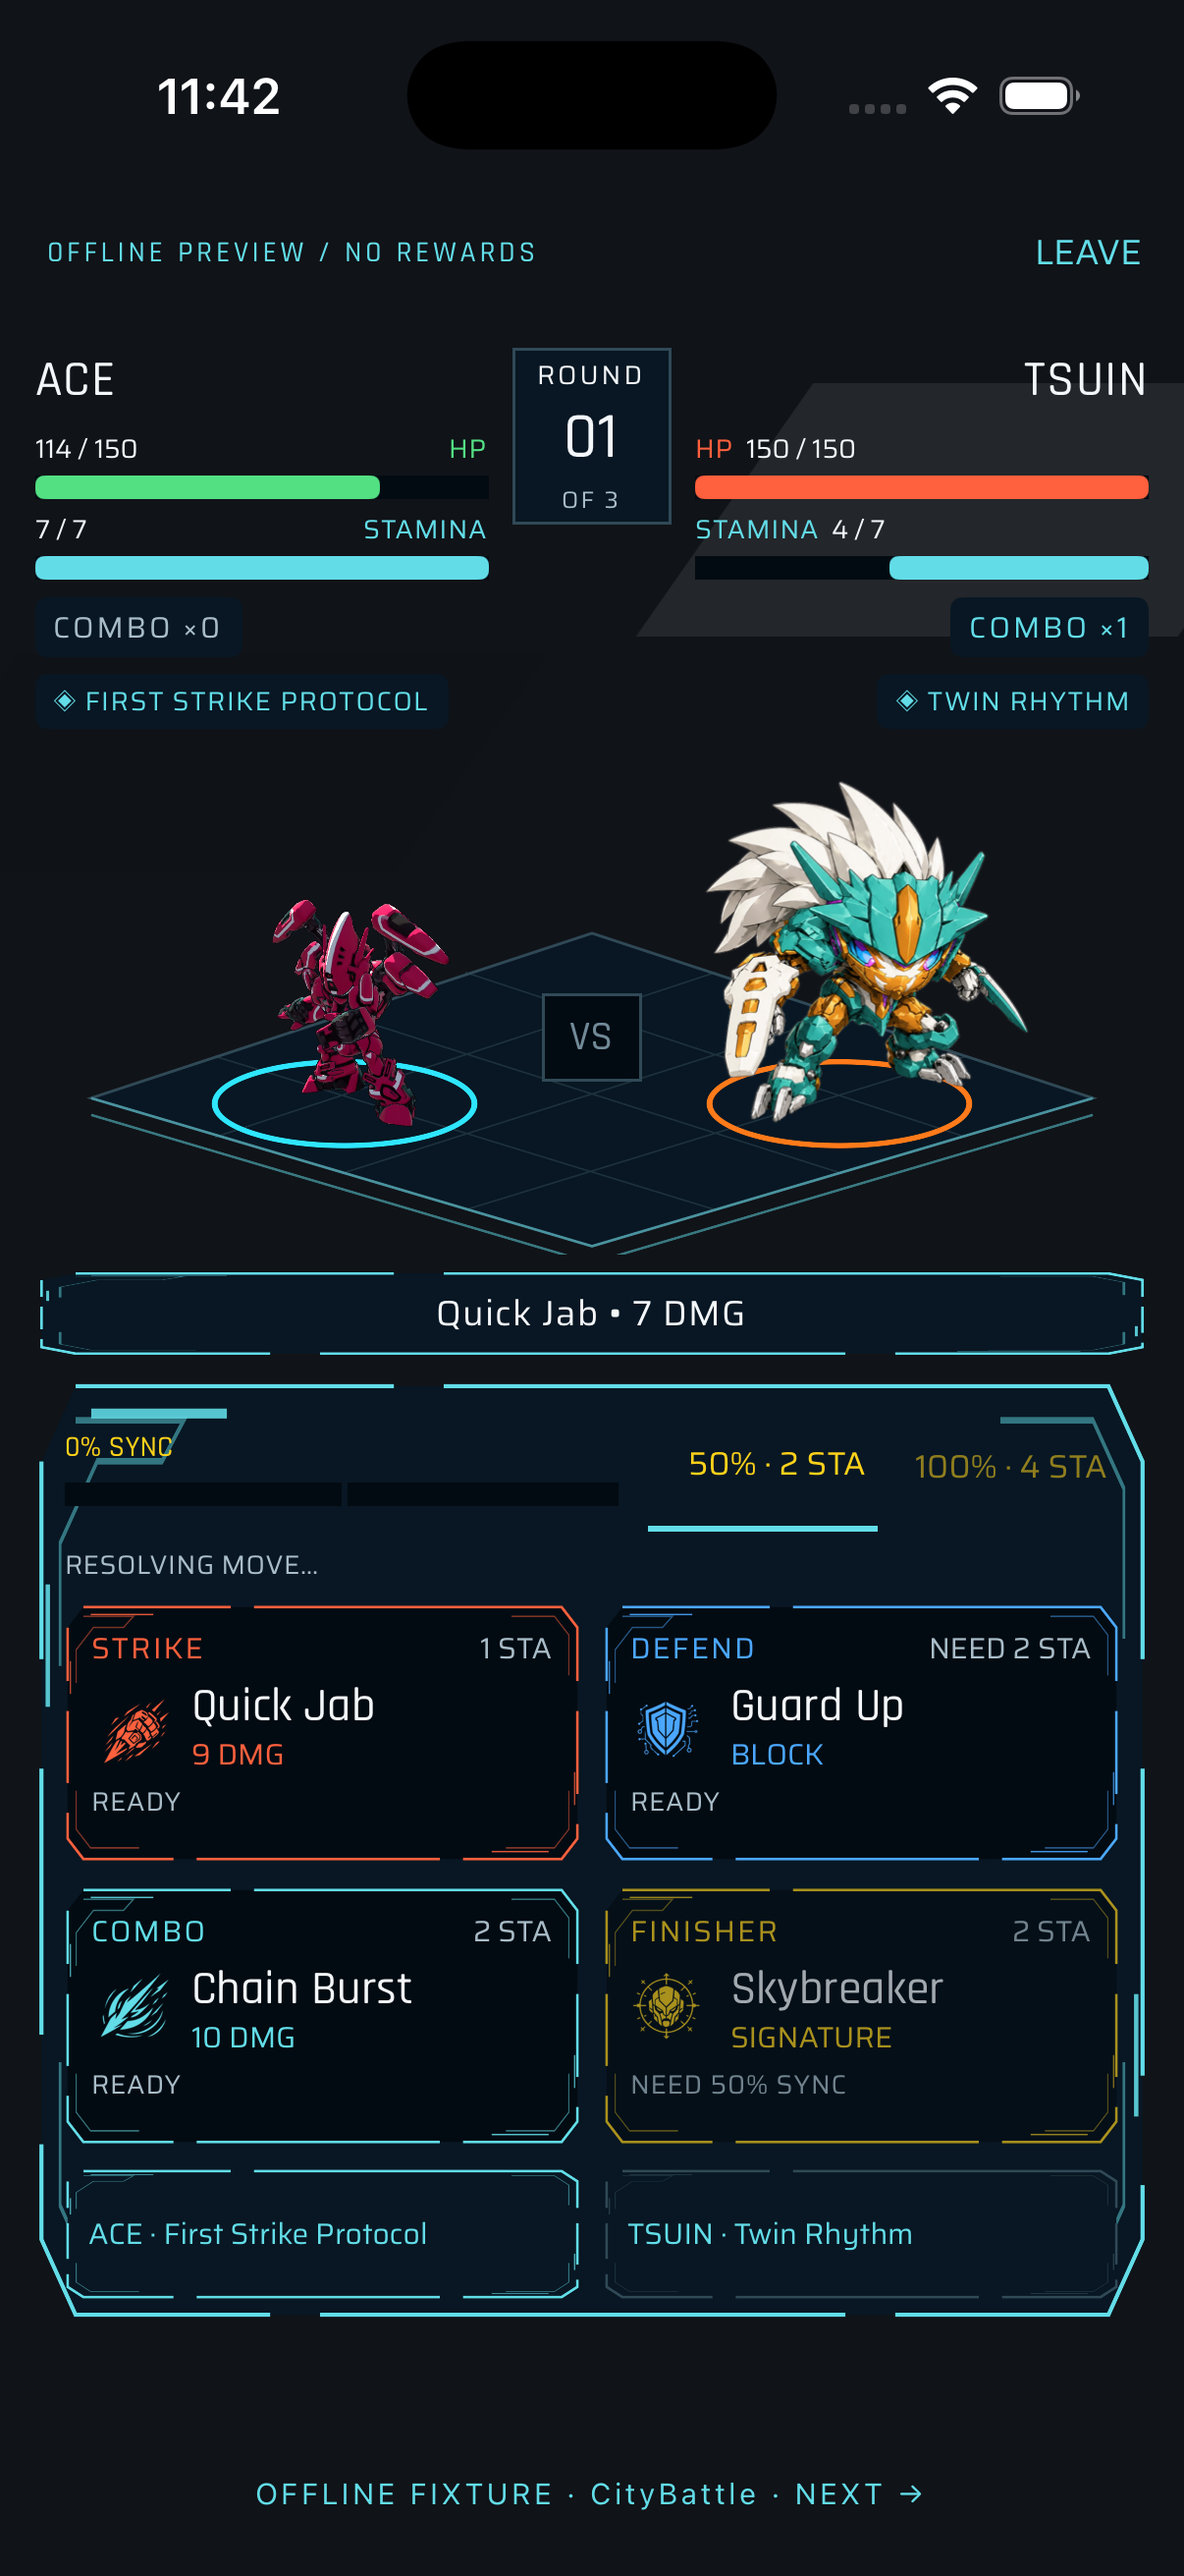
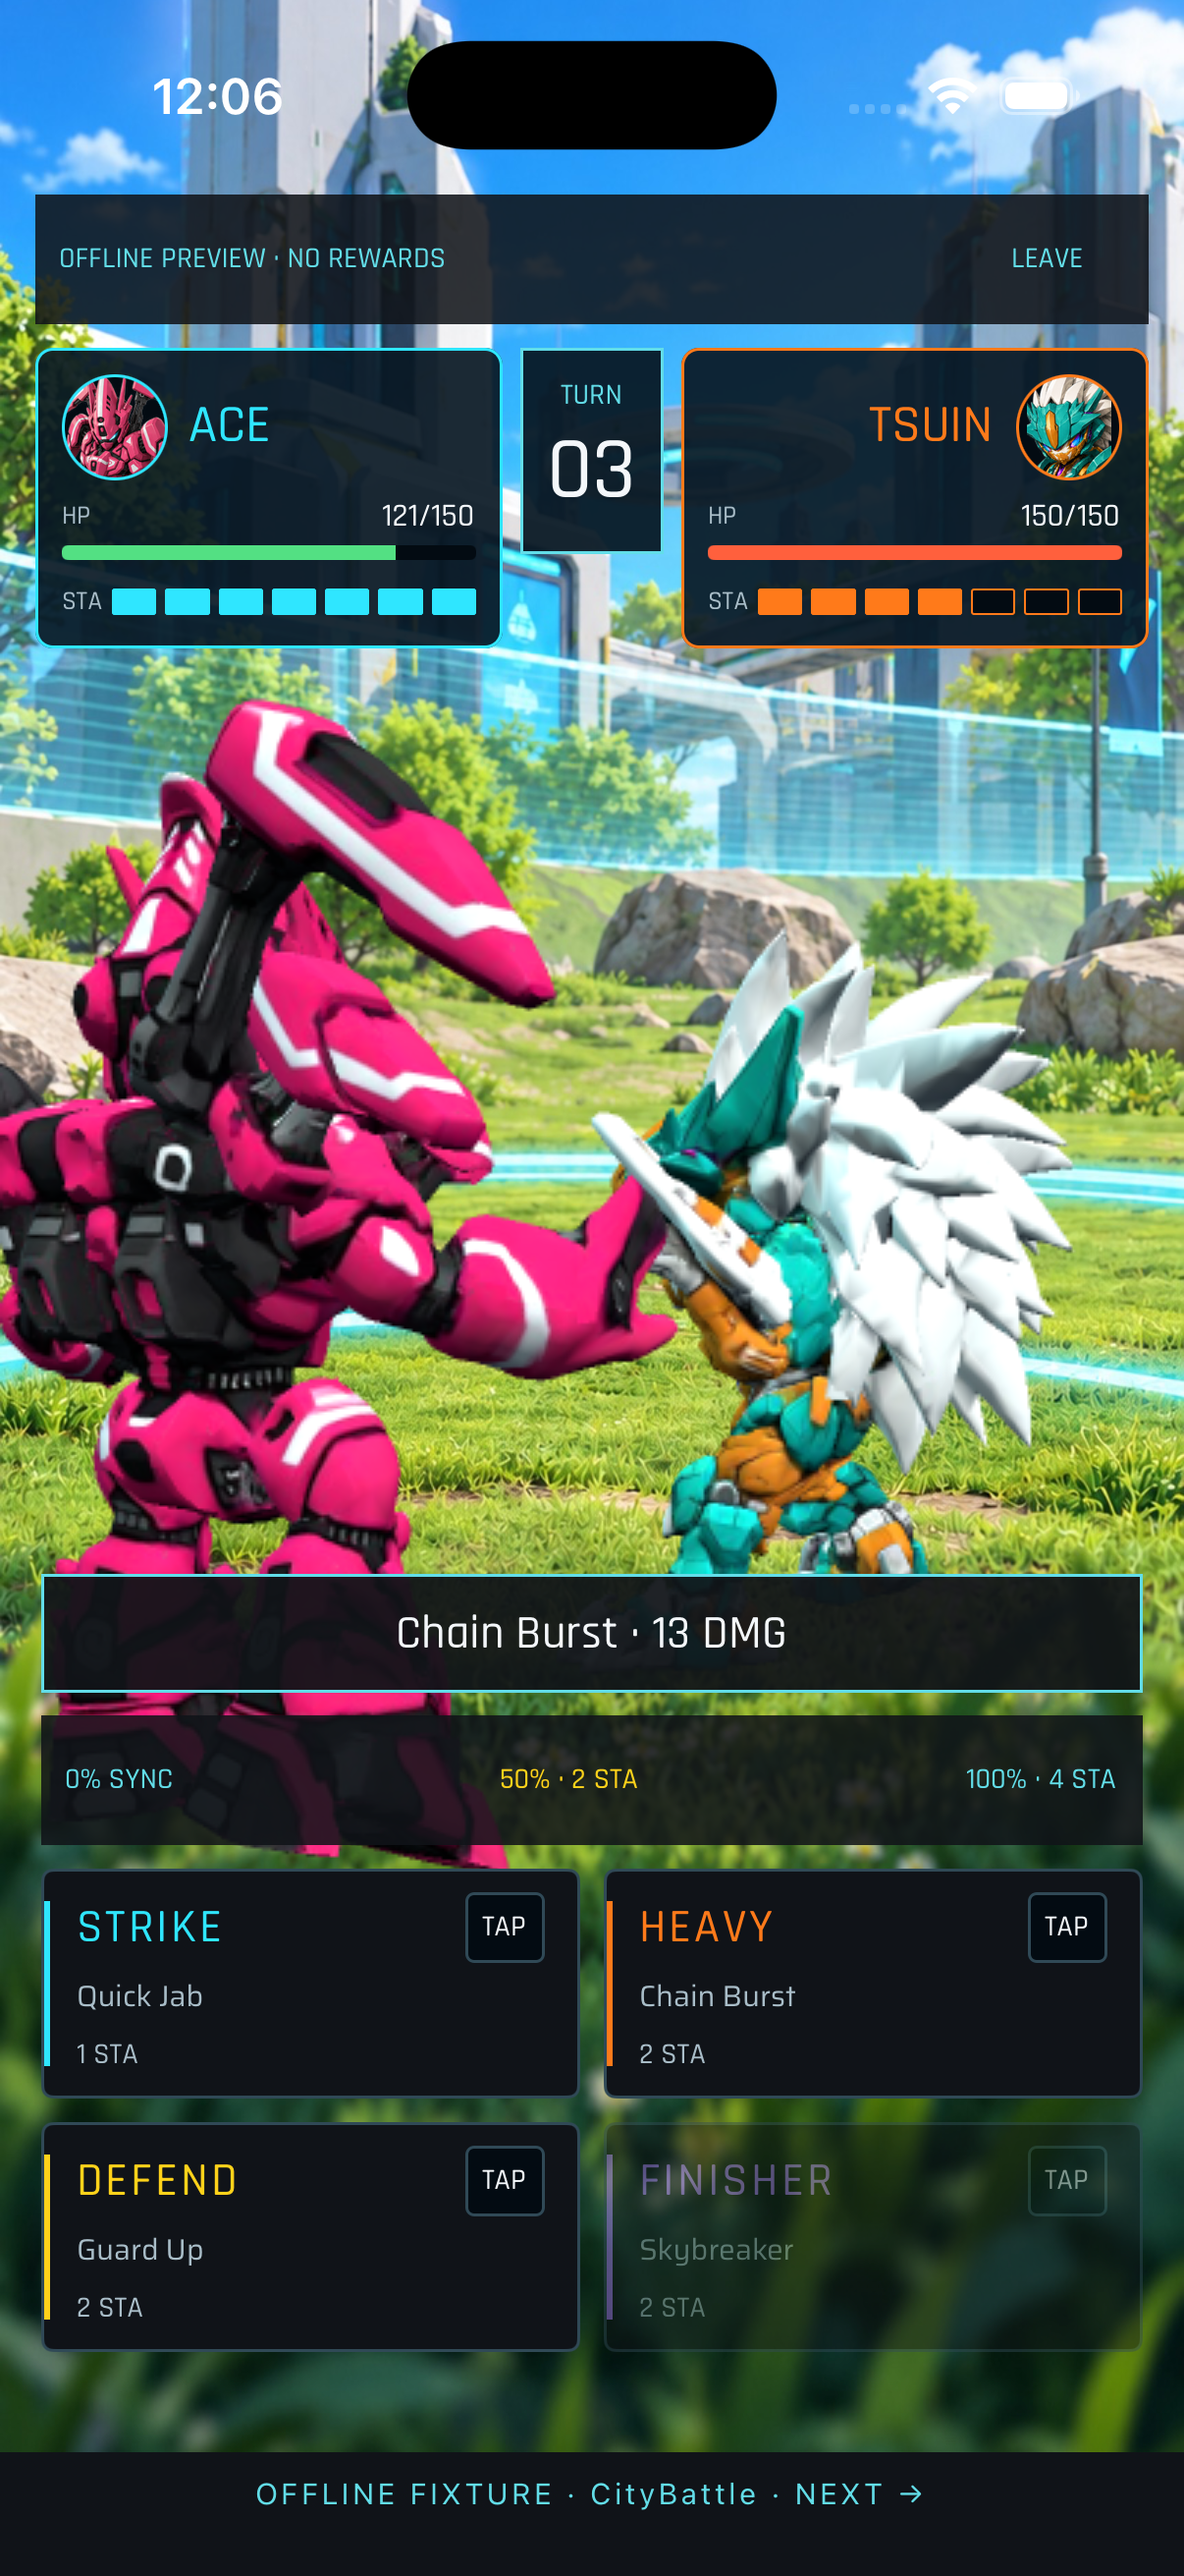
Use portrait park stage for playable city rival battles

diff --git a/mobile/src/components/city/CityLiveBattleView.tsx b/mobile/src/components/city/CityLiveBattleView.tsx
@@ -1,0 +1,77 @@
+import { useEffect, useRef, useState } from 'react';
+import { Image, Pressable, StyleSheet, Text, View } from 'react-native';
+import { useSafeAreaInsets } from 'react-native-safe-area-context';
+import { resolveBotId } from '../../../assets/bots';
+import { BotStage, type BotStageHandle } from '../bots/BotStage';
+import { HoloCityCommandBar, HOLOCITY_COMMANDS } from '../HoloCityCommandBar';
+import { FighterHud } from '../../screens/DuelPlaybackScreen';
+import { getActionSides } from '../arena/battleVisualStates';
+import { ArenaCombatEngine } from '../../features/arena/combatEngine';
+import { FINISHER_POLICY, type FinisherPower } from '../../features/arena/finisherPolicy';
+import type { ActionCard, BattleState } from '../../types/arena';
+import { theme } from '../../theme';
+
+/** Presentation of the existing resolved battle state; no combat decisions here. */
+export function CityLiveBattleView({ battle, moves, onPlay, onSignature, onLeave, pending, preview }: {
+  battle: BattleState; moves: ActionCard[]; onPlay: (id: string) => void;
+  onSignature: (power?: FinisherPower) => void; onLeave: () => void; pending: boolean; preview: boolean;
+}) {
+  const insets = useSafeAreaInsets();
+  const stage = useRef<BotStageHandle>(null);
+  const [ready, setReady] = useState(false);
+  const [error, setError] = useState(false);
+  const [power, setPower] = useState<FinisherPower>('half');
+  const player = resolveBotId(battle.player.name);
+  const rival = resolveBotId(battle.opponent.name);
+  const action = battle.actionHistory.at(-1);
+  useEffect(() => {
+    if (!ready || !action) return;
+    const { attacker, damaged } = getActionSides(action, battle);
+    const side = attacker === 'player' ? 'player' : 'rival';
+    const target = side === 'player' ? 'rival' : 'player';
+    const type = action.actionType ?? action.card.type;
+    if (type === 'defense') stage.current?.guard(side);
+    else { stage.current?.play(side, type === 'combo' ? 'Heavy' : type === 'finisher' ? 'Finisher' : 'Strike'); stage.current?.strike(side); }
+    const impact = setTimeout(() => {
+      if (damaged) stage.current?.hit(damaged === 'player' ? 'player' : 'rival');
+      else if (action.outcome === 'dodged' || action.outcome === 'missed') stage.current?.play(target, 'Evade');
+    }, 300);
+    return () => clearTimeout(impact);
+  }, [action?.id, ready]);
+  const signature = ArenaCombatEngine.getSignatureAvailability(battle, 'player', power);
+  const commands = HOLOCITY_COMMANDS.map(command => {
+    const type = command.id === 'heavy' ? 'combo' : command.id === 'defend' ? 'defense' : command.id;
+    const card = type === 'finisher' ? ArenaCombatEngine.buildSignatureCard(battle.player, power) : moves.find(candidate => candidate.type === type);
+    const available = card && (type === 'finisher' ? signature.playable : ArenaCombatEngine.getCardAvailability(battle, 'player', card).playable);
+    return { ...command, detail: card?.name, cost: card ? `${type === 'finisher' ? FINISHER_POLICY[power].stamina : card.staminaCost} STA` : undefined, disabled: !available || pending || (!ready && !error && !!player && !!rival) };
+  });
+  const state = (fighter: BattleState['player']) => ({ hp: fighter.currentHP, maxHp: fighter.maxHP, stamina: fighter.stamina, maxStamina: fighter.maxStamina });
+  return <View style={styles.screen}>
+    <Image source={require('../../../assets/battle/holocity-park.jpg')} style={[StyleSheet.absoluteFillObject, { width: '100%', height: '100%' }]} resizeMode="cover" />
+    {player && rival && <BotStage ref={stage} variant="duelPortrait" transparentBackdrop bots={[{ id: player, side: 'player' }, { id: rival, side: 'rival' }]} style={StyleSheet.absoluteFillObject} onReady={() => setReady(true)} onError={() => setError(true)} />}
+    <View style={[styles.top, { paddingTop: insets.top + 4 }]}>
+      <View style={styles.toolbar}><Text style={styles.caption}>{preview ? 'OFFLINE PREVIEW · NO REWARDS' : 'HOLOCITY / PARK ARENA'}</Text><Pressable accessibilityRole="button" onPress={onLeave} disabled={pending} style={styles.button}><Text style={styles.caption}>LEAVE</Text></Pressable></View>
+      <View style={styles.hud}><FighterHud name={battle.player.name} state={state(battle.player)} /><View style={styles.round}><Text style={styles.caption}>TURN</Text><Text style={styles.number}>{String(action?.turnNumber ?? 1).padStart(2, '0')}</Text></View><FighterHud name={battle.opponent.name} state={state(battle.opponent)} rival /></View>
+    </View>
+    <View style={[styles.bottom, { paddingBottom: Math.max(12, insets.bottom) }]}>
+      <Text style={styles.log}>{error || !player || !rival ? '3D unavailable · controls remain active' : !ready ? 'LOADING ARENA' : action ? `${action.card.name} · ${action.actualDamage ?? action.damageDealt} DMG` : 'SELECT YOUR COMMAND'}</Text>
+      <View style={styles.toolbar}><Text style={styles.caption}>{Math.round(battle.player.specialMeter)}% SYNC</Text>{(['half', 'full'] as const).map(value => <Pressable key={value} accessibilityRole="button" accessibilityState={{ selected: power === value }} onPress={() => setPower(value)} style={styles.button}><Text style={[styles.caption, power === value && { color: theme.colors.warning }]}>{FINISHER_POLICY[value].sync}% · {FINISHER_POLICY[value].stamina} STA</Text></Pressable>)}</View>
+      <HoloCityCommandBar compact commands={commands} onPress={id => {
+        if (id === 'finisher') onSignature(power);
+        else { const card = moves.find(candidate => candidate.type === (id === 'heavy' ? 'combo' : id === 'defend' ? 'defense' : id)); if (card) onPlay(card.id); }
+      }} />
+    </View>
+  </View>;
+}
+const styles = StyleSheet.create({
+  screen: { flex: 1, backgroundColor: theme.colors.carbon },
+  top: { position: 'absolute', top: 0, left: 12, right: 12 },
+  toolbar: { backgroundColor: '#101318DD', flexDirection: 'row', alignItems: 'center', justifyContent: 'space-between', paddingHorizontal: 8, marginBottom: 8 },
+  button: { minHeight: 44, minWidth: 52, justifyContent: 'center', alignItems: 'center' },
+  caption: { ...theme.type.micro, color: theme.colors.accent, fontSize: 10 },
+  hud: { flexDirection: 'row', alignItems: 'flex-start', gap: 6 },
+  round: { backgroundColor: '#081723EF', borderWidth: 1, borderColor: theme.colors.accent, padding: 8, alignItems: 'center' },
+  number: { ...theme.type.display, color: theme.colors.text, fontSize: 30 },
+  bottom: { position: 'absolute', bottom: 0, left: 14, right: 14 },
+  log: { ...theme.type.label, textAlign: 'center', color: theme.colors.text, padding: 8, marginBottom: 8, backgroundColor: '#101318EF', borderWidth: 1, borderColor: theme.colors.accent },
+});

diff --git a/mobile/src/components/city/CityRivalBattle.tsx b/mobile/src/components/city/CityRivalBattle.tsx
@@ -2,7 +2,7 @@ import { useEffect, useMemo, useRef, useState } from "react";
 import { ActivityIndicator, Alert, AppState, Image, Pressable, StyleSheet, Text, View } from "react-native";
 import { useSafeAreaInsets } from "react-native-safe-area-context";
 import { getHolobotFullImageSource, getHolobotHeadshotImageSource } from "@/config/holobots";
-import { BattleArenaView } from "@/components/arena/BattleArenaView";
+import { CityLiveBattleView } from "./CityLiveBattleView";
 import { ArenaCombatEngine } from "@/features/arena/combatEngine";
 import { getAbility } from "@/features/arena/abilities";
 import { getSignatureFinisher, resolveCombatKit } from "@/features/arena/moveKits";
@@ -158,10 +158,7 @@ export function CityRivalBattle({ uid, rival, onClose, preview = false, initialC
   const replayRounds = useMemo(() => cityBattleRounds(battle?.actionHistory ?? []), [battle?.actionHistory]);
   if (receipt && issue) return <DuelPlaybackScreen fixture={preview} receipt={replayReceipt} rounds={replayRounds} attackerBotId={issue.player.holobotId} defenderBotId={issue.opponent.holobotId} onClose={onClose} />;
 
-  if (battle?.status === "active") return <View style={[styles.screen, { paddingTop: insets.top, paddingBottom: insets.bottom }]}>
-    <View style={styles.bar}><Text style={styles.label}>{preview ? "OFFLINE PREVIEW / NO REWARDS" : `RIVAL / ${rival.pilotName.toUpperCase()}`}</Text><Pressable accessibilityRole="button" onPress={forfeit} disabled={pending} style={styles.leave}><Text style={styles.leaveText}>LEAVE</Text></Pressable></View>
-    <BattleArenaView embedded battle={battle} playerCards={moves} playableCardIds={ArenaCombatEngine.getPlayableCards(battle, "player", moves).map((move) => move.id)} cardAvailability={Object.fromEntries(moves.map((move) => [move.id, ArenaCombatEngine.getCardAvailability(battle, "player", move)]))} lastAction={battle.actionHistory.at(-1) ?? null} isAnimating={Date.now() < actionLockedUntil.current} onCardPlay={play} onSignaturePlay={signature} />
-  </View>;
+  if (battle?.status === "active") return <CityLiveBattleView battle={battle} moves={moves} onPlay={play} onSignature={signature} onLeave={forfeit} pending={pending} preview={preview} />;
 
   return <View style={[styles.screen, styles.center, { paddingTop: insets.top + 24, paddingBottom: insets.bottom + 24 }]}>
     <Text style={styles.label}>CITY RIVAL CHALLENGE</Text>

diff --git a/mobile/src/screens/DuelPlaybackScreen.tsx b/mobile/src/screens/DuelPlaybackScreen.tsx
@@ -11,7 +11,7 @@ export type { DuelRound } from '../lib/bots/duelPlayback';
 export type DuelPlaybackScreenProps = { receipt: unknown; rounds?: readonly DuelRound[]; attackerBotId?: string; defenderBotId?: string; onClose: () => void; onMetrics?: (metrics: BotMetrics) => void; fixture?: boolean; showMetrics?: boolean; /** Development capture stops the actual cue runner after this round's impact. */ captureRound?: number };
 
 type FighterSnapshot = { hp: number; maxHp: number; stamina: number; maxStamina: number };
-function FighterHud({ name, state, rival = false }: { name: string; state?: FighterSnapshot; rival?: boolean }) {
+export function FighterHud({ name, state, rival = false }: { name: string; state?: FighterSnapshot; rival?: boolean }) {
   const accent = rival ? theme.rings.rival[0] : theme.rings.player[0];
   const ratio = state && state.maxHp > 0 ? Math.max(0, Math.min(1, state.hp / state.maxHp)) : 0;
   return <View style={[styles.fighter, { borderColor: accent }]}>

diff --git a/Documentation/QA/2026-10-14-mobile-holocity-lite/W6.md b/Documentation/QA/2026-10-14-mobile-holocity-lite/W6.md
@@ -85,3 +85,11 @@ First native draw ranged from **927 to 2,656 ms**; per-bot median completed nati
 - No W6 asset work is held. Physical-device fps and live authenticated host flow are not claimed by these simulator-only measurements.
 
 Rebuild and API details: [bot-assets.md](../../../mobile/docs/bot-assets.md). Asset sizes/hashes/takes: [manifest.json](../../../mobile/assets/bots/manifest.json).
+
+## Playable rival stage alignment — 2026-10-15
+
+The old `CityBattle` screenshot showed the interactive fight, while `Duel` showed the post-settlement replay. City rival fights now use the same full-bleed park/grass plate, low portrait camera, opposing GLB rigs and shared portrait/HP/stamina HUD as replay. Commands remain playable in the Carbon 2×2 bar (Strike, Heavy, Defend, Finisher), including the existing half/full finisher selector. The live turn counter reflects engine turns rather than claiming a fixed three-round match.
+
+Animations consume existing resolved action records: strike/heavy/finisher aliases select manifest clips, defense uses guard, misses evade, hits use knockback/shake, and one-shots return to idle. Existing combat resolution and host settlement are unchanged. The live stage is not a claim that client traces are host-authored.
+
+Verified on iPhone 17 Pro / iOS 26.5 with the offline ACE/TSUIN fixture: both rigs load in the park facing each other; tapping Strike updates opponent HP and the action log. [Updated playable screen](screenshots/CityBattle.png). TypeScript passed; 495 tests passed, 4 skipped. Existing simulator performance limitations still apply; this revision does not claim improved fps. No account, merge or deploy.
